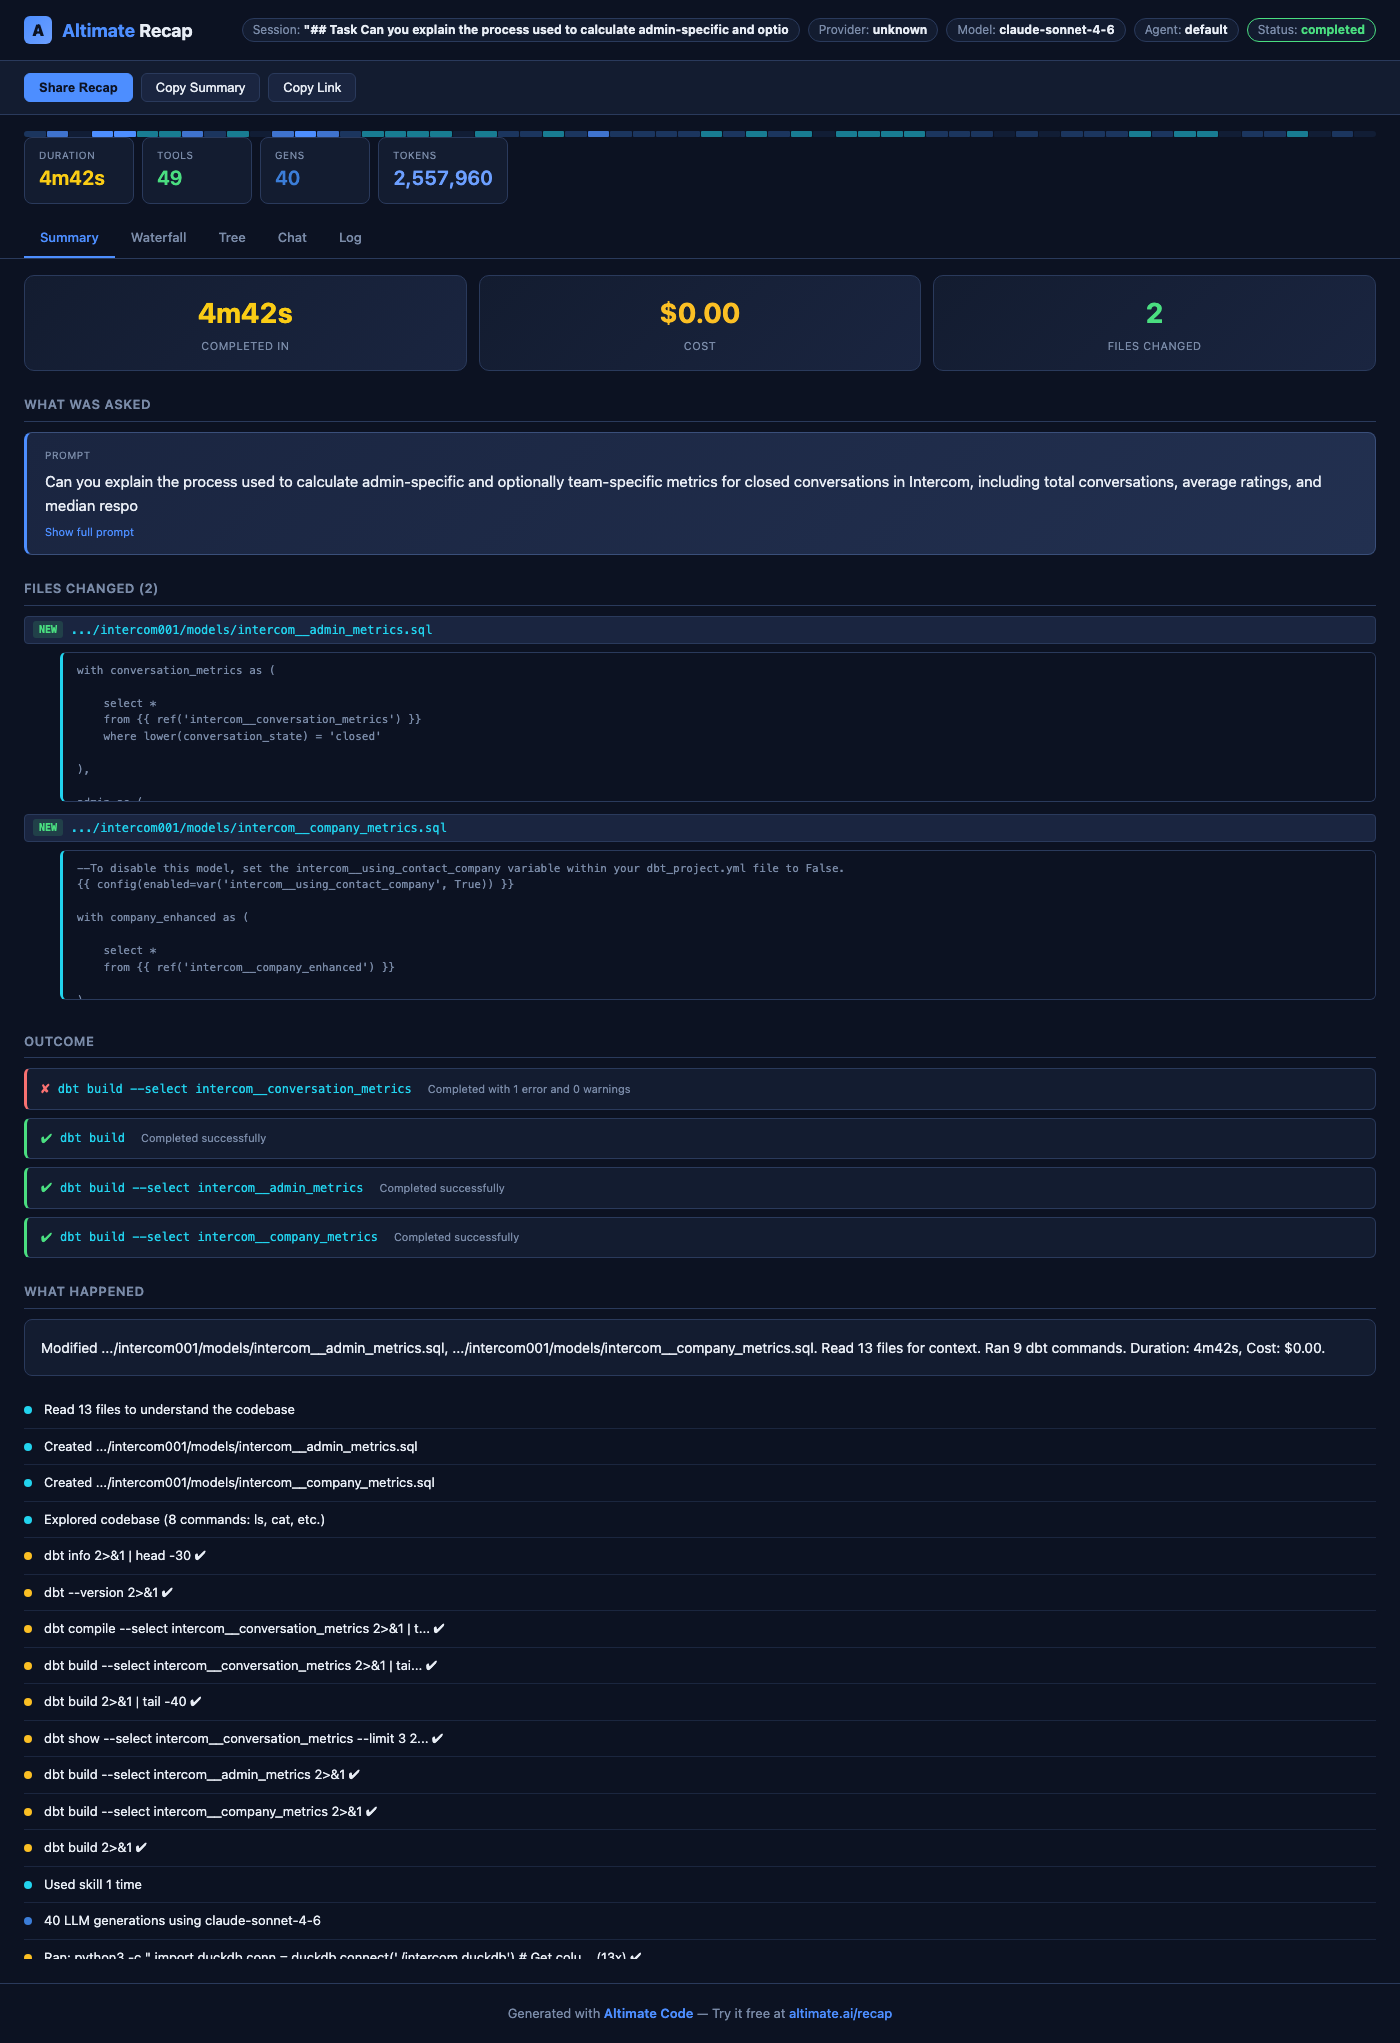
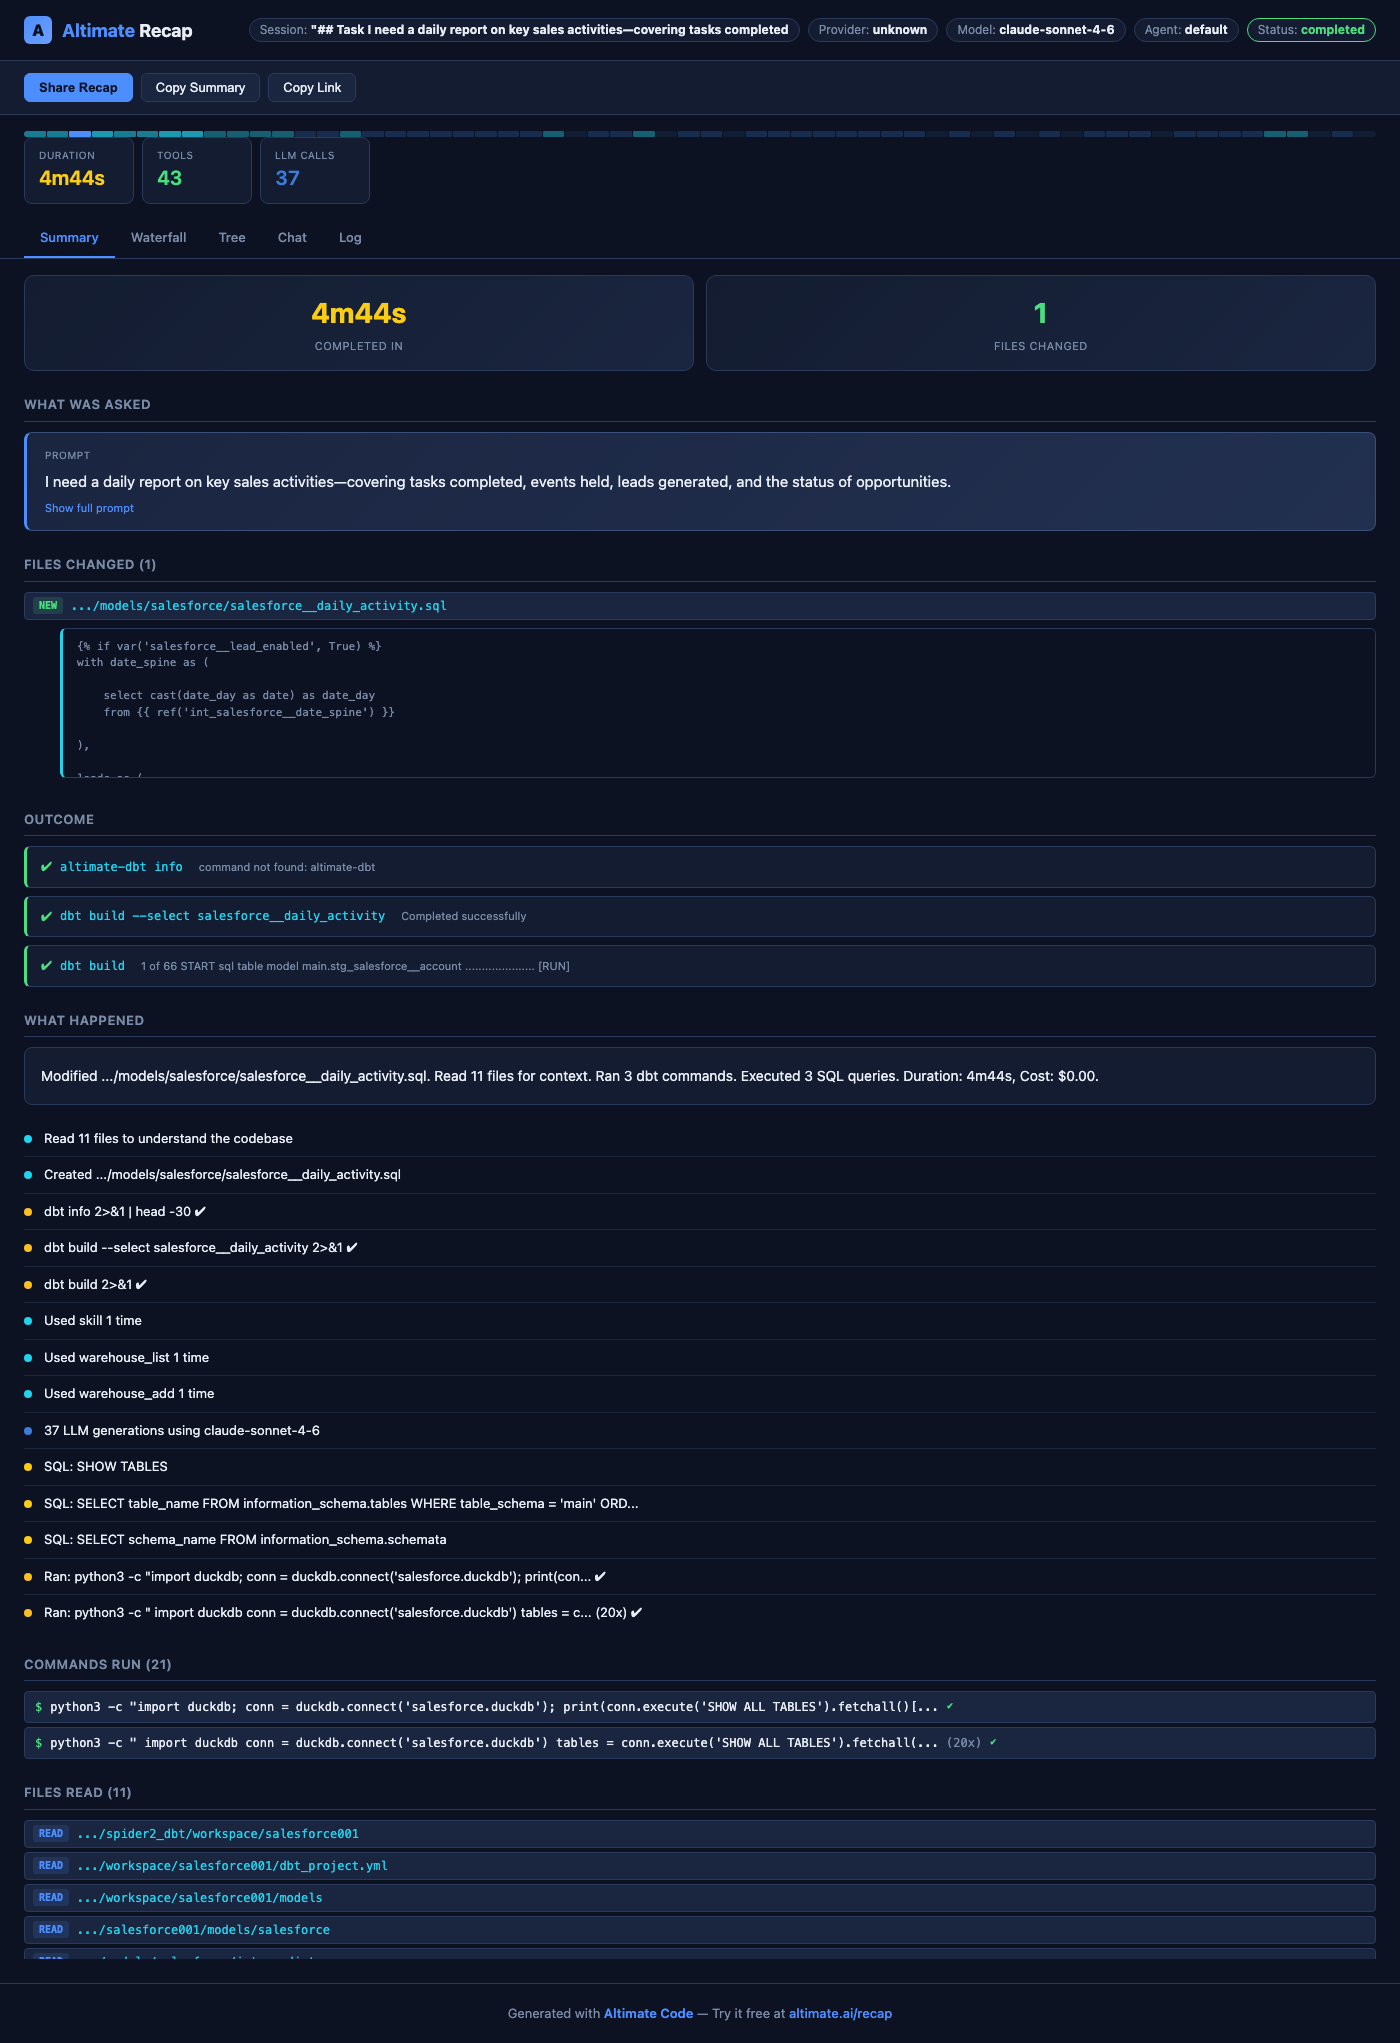
fix: viewer UX improvements from 100-trace analysis
- Collapse Files Changed after 5 entries with "Show all N files" toggle
- Rename "GENS" → "LLM Calls" in header cards
- Hide Tokens card when cost is $0 (not actionable without cost context)
- Hide Cost metric card when $0.00 (wasted space)
- Add prominent error summary banner right after header metrics
- Improved dbt outcome detection: catch [PASS], [ERROR], N of M, Compilation Error
- Outcome detection rate improved from 18% → 33% across 100 real traces
- Updated doc screenshots with cleaner samples

Tested across 100 real production traces: 0 crashes, 0 JS errors.

diff --git a/packages/opencode/src/altimate/observability/viewer.ts b/packages/opencode/src/altimate/observability/viewer.ts
@@ -346,8 +346,8 @@ var cardsData = [
   ['Duration', fd(s.duration), 'primary', true],
   ['Cost', fc(s.totalCost), 'orange', s.totalCost > 0],
   ['Tools', Number(s.totalToolCalls||0), 'green', Number(s.totalToolCalls||0) > 0],
-  ['Gens', Number(s.totalGenerations||0), 'secondary', Number(s.totalGenerations||0) > 0],
-  ['Tokens', Number(s.totalTokens||0).toLocaleString(), 'accent', Number(s.totalTokens||0) > 0]
+  ['LLM Calls', Number(s.totalGenerations||0), 'secondary', Number(s.totalGenerations||0) > 0],
+  ['Tokens', Number(s.totalTokens||0).toLocaleString(), 'accent', s.totalCost > 0]
 ];
 
 // Duration color coding
@@ -668,7 +668,13 @@ function showDetail(span) {
       if (!isSignificant) {
         var buildMatch = outStr.match(/(?:Completed|Finished|Built)\\s+(?:successfully|with|in)[^\\n]*/i)
           || outStr.match(/BUILD\\s+(?:SUCCESS|FAILED|SUCCESSFUL)/i)
-          || outStr.match(/(?:Compiling|Building).*(?:Finished|Done|Complete)/i);
+          || outStr.match(/(?:Compiling|Building).*(?:Finished|Done|Complete)/i)
+          // dbt-specific: output is often truncated, so also match partial results
+          || outStr.match(/\\d+\\s+of\\s+\\d+\\s+(?:PASS|ERROR|FAIL|START|OK)\\b[^\\n]*/i)
+          || outStr.match(/\\[PASS[^\\]]*\\]/i)
+          || outStr.match(/\\[ERROR[^\\]]*\\]/i)
+          || outStr.match(/Compilation\\s+Error[^\\n]*/i)
+          || outStr.match(/command\\s+not\\s+found[^\\n]*/i);
         if (buildMatch) { isSignificant = true; resultText = buildMatch[0].replace(/\\s+/g, ' ').replace(/:$/, '').trim().slice(0, 100); }
       }
 
@@ -776,7 +782,9 @@ function showDetail(span) {
   if (s.status !== 'running') {
     html += '<div class="sum-metric"><div class="val" style="color:' + durColorVal + '">' + fd(s.duration) + '</div><div class="lbl">Completed in</div></div>';
   }
-  html += '<div class="sum-metric"><div class="val" style="color:var(--orange)">' + fc(s.totalCost) + '</div><div class="lbl">Cost</div></div>';
+  if (s.totalCost > 0) {
+    html += '<div class="sum-metric"><div class="val" style="color:var(--orange)">' + fc(s.totalCost) + '</div><div class="lbl">Cost</div></div>';
+  }
   var changedCount = Object.keys(changedFiles).length;
   if (changedCount > 0) {
     html += '<div class="sum-metric"><div class="val" style="color:var(--green)">' + changedCount + '</div><div class="lbl">Files changed</div></div>';
@@ -785,6 +793,18 @@ function showDetail(span) {
     html += '<div class="sum-metric"><div class="val" style="color:var(--red)">' + errSpans.length + '</div><div class="lbl">Error' + (errSpans.length > 1 ? 's' : '') + '</div></div>';
   }
   html += '</div></div>';
+
+  // Show error summary prominently right after header if there are errors
+  if (errSpans.length > 0) {
+    html += '<div class="sum-error-banner" style="margin:0 0 8px;padding:10px 16px;background:rgba(248,113,113,0.08);border:1px solid rgba(248,113,113,0.3);border-radius:8px;display:flex;align-items:center;gap:10px">';
+    html += '<span style="color:var(--red);font-size:18px">\\u26A0</span>';
+    html += '<div style="font-size:13px"><strong style="color:var(--red)">' + errSpans.length + ' error' + (errSpans.length > 1 ? 's' : '') + ' during session</strong>';
+    var firstErr = errSpans[0];
+    var firstErrMsg = firstErr.statusMessage || '';
+    if (!firstErrMsg && firstErr.output && typeof firstErr.output === 'string') firstErrMsg = firstErr.output.slice(0, 100);
+    if (firstErrMsg) html += '<div style="color:var(--dim);font-size:12px;margin-top:2px">' + e((firstErr.name || '') + ': ' + firstErrMsg.slice(0, 100)) + '</div>';
+    html += '</div></div>';
+  }
 
   // What was asked
   html += '<div class="sum-section">';
@@ -810,16 +830,22 @@ function showDetail(span) {
     html += '<div class="sum-section">';
     html += '<div class="sum-section-title">Files Changed (' + changedCount + ')</div>';
     html += '<div class="sum-file-list">';
-    Object.keys(changedFiles).sort().forEach(function(fp) {
+    var changedKeys = Object.keys(changedFiles).sort();
+    var MAX_FILES_VISIBLE = 5;
+    changedKeys.forEach(function(fp, idx) {
+      var hidden = idx >= MAX_FILES_VISIBLE && changedCount > MAX_FILES_VISIBLE ? ' style="display:none" data-extra-file="1"' : '';
       var badge = changedFiles[fp] === 'write' ? 'write' : 'edit';
       var label = badge === 'write' ? 'NEW' : 'EDIT';
-      html += '<div class="sum-file-item"><span class="file-badge ' + badge + '">' + label + '</span><span class="file-path" title="' + e(fp) + '">' + e(shortPath(fp)) + '</span></div>';
-      // Show diff preview if available
+      html += '<div class="sum-file-item"' + hidden + '><span class="file-badge ' + badge + '">' + label + '</span><span class="file-path" title="' + e(fp) + '">' + e(shortPath(fp)) + '</span></div>';
+      // Show diff preview if available (only for first 5 files)
       var preview = changedFilePreviews[fp];
-      if (preview) {
-        html += '<div class="sum-diff-preview"><pre>' + e(preview.length > 300 ? preview.slice(0, 300) + '...' : preview) + '</pre></div>';
+      if (preview && idx < MAX_FILES_VISIBLE) {
+        html += '<div class="sum-diff-preview"' + hidden + '><pre>' + e(preview.length > 300 ? preview.slice(0, 300) + '...' : preview) + '</pre></div>';
       }
     });
+    if (changedCount > MAX_FILES_VISIBLE) {
+      html += '<div class="sum-prompt-toggle" style="margin-top:6px;font-size:12px;color:var(--primary);cursor:pointer" onclick="var extras=this.parentElement.querySelectorAll(\\x27[data-extra-file]\\x27);var show=extras[0]&&extras[0].style.display===\\x27none\\x27;extras.forEach(function(el){el.style.display=show?\\x27\\x27:\\x27none\\x27});this.textContent=show?\\x27Show fewer\\x27:\\x27Show all ' + changedCount + ' files\\x27">Show all ' + changedCount + ' files</div>';
+    }
     html += '</div></div>';
   }
 
